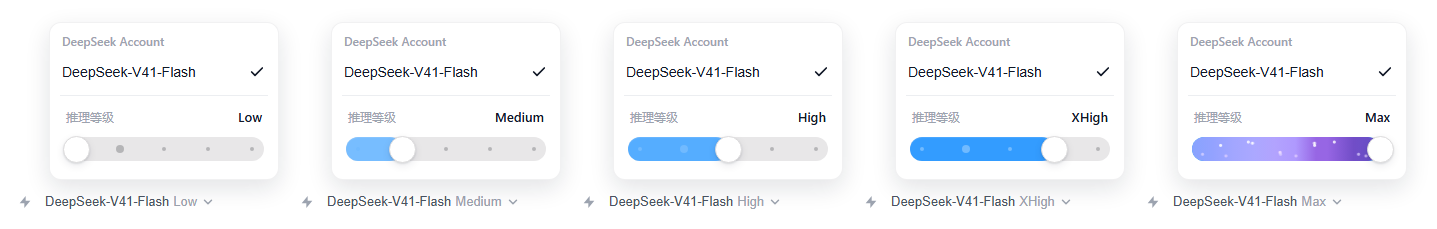
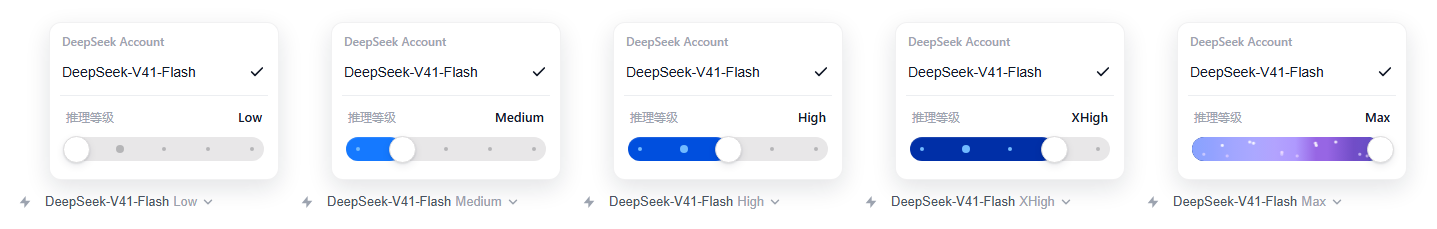
feat: 色阶提鲜，最高蓝改为克莱因蓝 #002FA7 v0.0.9
- 色相 210° → 223.1°、饱和度全程 100%、亮度 65% → 32.7%：不再只降亮度，低档不会被冲淡成粉蓝
- 最高档（max 下面那格）由 #339CFF 改为克莱因蓝 #002FA7；四档模型实测 #0061F9 → #002FA7
- 五档模型实测 #1579FF → #004FDE → #002FA7；最深色仍铺满最后两格，max 紫色渐变不变
- README 更新功能说明、0.0.9 更新日志与配图 assets/screenshots/effort-deepen.png

Changed region(s): [[0.6124, 0.5808, 0.7349, 0.7031], [0.4287, 0.5808, 0.5205, 0.7031], [0.2143, 0.5808, 0.2756, 0.7031]]

diff --git a/lib/client.js b/lib/client.js
@@ -81,30 +81,27 @@ window.__ModuleLoader__.load({
 			document.head.appendChild(tag);
 		}
 		const NO_EFFORTS = [];
-		// ★ 每拉动一格，这一格填充的蓝色就比上一格更深一点。
-		//   做法：色相 / 饱和度钉死（沿用原来 #339CFF 的 209.1° / 100%），只按档位线性降低亮度，
-		//   所以看起来是"同一个蓝越来越深"，不会换色。
-		//   最深的那一档仍然正好是原来的 #339CFF（亮度 60%），而且最深色铺满最后两格，
-		//   因此最高档（max 的紫色渐变）与它下面那格的既有观感完全不变，只有更低的档位变浅。
-		const EFFORT_BLUE_HUE = 209.1;
-		const EFFORT_BLUE_SAT = 100;
-		const EFFORT_BLUE_LIGHT_L = 80;
-		const EFFORT_BLUE_DEEP_L = 60;
+		// ★ 每拉动一格，这一格填充的蓝色就比上一格更深、也更艳一点。
+		//   色阶两端：最低档是鲜亮的蔚蓝 hsl(210, 100%, 65%)，最高档（max 下面那格）是
+		//   克莱因蓝 #002FA7，也就是 hsl(223.1, 100%, 32.7%)。中间色相从 210° 慢慢偏到 223.1°、
+		//   饱和度全程 100%、只降亮度 —— 所以是"同一个蓝越来越深越来越浓"，
+		//   而不是之前那样越往低档越被亮度冲淡成粉蓝色。
+		//   最深色铺满最后两格，因此 max 的紫色渐变与它下面那格的观感完全不变。
+		const EFFORT_BLUE_RAMP = { h0: 210, s0: 100, l0: 65, h1: 223.1, s1: 100, l1: 32.7 };
+		const effortBlueCss = (t) => {
+			const mix = (from, to) => Math.round((from + (to - from) * t) * 10) / 10;
+			return "hsl(" + mix(EFFORT_BLUE_RAMP.h0, EFFORT_BLUE_RAMP.h1) + ", " + mix(EFFORT_BLUE_RAMP.s0, EFFORT_BLUE_RAMP.s1) + "%, " + mix(EFFORT_BLUE_RAMP.l0, EFFORT_BLUE_RAMP.l1) + "%)";
+		};
 		const buildEffortPalette = (steps) => {
 			const out = [];
 			if (steps <= 0) return out;
-			const deep = "hsl(" + EFFORT_BLUE_HUE + ", " + EFFORT_BLUE_SAT + "%, " + EFFORT_BLUE_DEEP_L + "%)";
 			if (steps <= 2) {
-				for (let i = 0; i < steps; i++) out.push(deep);
+				for (let i = 0; i < steps; i++) out.push(effortBlueCss(1));
 				return out;
 			}
-			// 第 0 格最浅 → 倒数第 2 格到达最深的 #339CFF，最高格（max）沿用同一个最深色。
+			// 第 0 格最浅 → 倒数第 2 格到达克莱因蓝，最高格（max）沿用同一个最深色。
 			const span = steps - 2;
-			for (let i = 0; i < steps; i++) {
-				const t = Math.min(1, i / span);
-				const level = EFFORT_BLUE_LIGHT_L + (EFFORT_BLUE_DEEP_L - EFFORT_BLUE_LIGHT_L) * t;
-				out.push("hsl(" + EFFORT_BLUE_HUE + ", " + EFFORT_BLUE_SAT + "%, " + (Math.round(level * 10) / 10) + "%)");
-			}
+			for (let i = 0; i < steps; i++) out.push(effortBlueCss(Math.min(1, i / span)));
 			return out;
 		};
 		function EffortSlider({ efforts, index, majorIndex, onChange, onSubmit, disabled }) {

diff --git a/README.md b/README.md
@@ -8,13 +8,13 @@ A Codex-style reasoning-effort slider embedded in the DeepSeek Harness model sel
 Open the model picker, drag the slider, and the effort level takes effect on release.
 
 - 拖动实时预览、松手生效；换模型自动携带当前档位，目标模型不支持时回退到默认档
-- 拖动时**每拉动一格，填充的蓝色就比上一格更深一档**（同一色相只降亮度）；最高档前的最后一格仍是最深的 `#339CFF`，max 的紫色渐变保持不变
+- 拖动时**每拉动一格，填充的蓝色就比上一格更深更浓一档**：色相从 210° 慢慢偏到 223.1°、饱和度全程拉满、亮度从 65% 压到 32.7%，最低档是鲜亮的蔚蓝，最高档前的最后一格是**克莱因蓝 `#002FA7`**，max 的紫色渐变保持不变
 - 键盘 ←/→ ↑/↓ 与鼠标滚轮都能切档；单档位模型会提示"支持档位"
-- Drag to preview · per-model effort fallback · keyboard and wheel support · each notch deepens the fill blue by one shade
+- Drag to preview · per-model effort fallback · keyboard and wheel support · each notch deepens and saturates the fill blue, up to International Klein Blue
 
 ![DeepSeek Harness 模型选择器里的推理等级滑条（内嵌插件，最高档 Max）](assets/screenshots/effort-slider.png)
 
-![每拉动一格蓝色深一档（Low → Medium → High → XHigh → Max，最高档仍是原来的紫色渐变）](assets/screenshots/effort-deepen.png)
+![每拉动一格蓝色更深更艳（Low → Medium → High → XHigh → Max：蔚蓝 → 克莱因蓝，最高档仍是原来的紫色渐变）](assets/screenshots/effort-deepen.png)
 
 ## 安装
 
@@ -23,7 +23,7 @@ Open the model picker, drag the slider, and the effort level takes effect on rel
 **从本仓库安装（推荐，tag 版）**
 
 ```sh
-dsh plugin --profile desktop add https://github.com/edwardzhou21/dsh-reasoning-slider/archive/refs/tags/v0.0.8.tar.gz
+dsh plugin --profile desktop add https://github.com/edwardzhou21/dsh-reasoning-slider/archive/refs/tags/v0.0.9.tar.gz
 ```
 
 **想跟最新提交**
@@ -54,7 +54,7 @@ dsh plugin --profile web remove reasoning-slider
 
 ## 兼容性
 
-`reasoning-slider@0.0.8` 支持 DSH `0.1.2-alpha.2`、`0.1.2-alpha.4`、`0.1.2-alpha.5`、`0.1.2-rc.1` 与 `0.2.0-rc.2`，要求 Node.js `22.13.0` 或更高版本。DSH `0.1.2-alpha.3` 尚未验证。
+`reasoning-slider@0.0.9` 支持 DSH `0.1.2-alpha.2`、`0.1.2-alpha.4`、`0.1.2-alpha.5`、`0.1.2-rc.1` 与 `0.2.0-rc.2`，要求 Node.js `22.13.0` 或更高版本。DSH `0.1.2-alpha.3` 尚未验证。
 
 一次性 `web` Profile 已在 Windows、Node.js `24.19.0`、DSH `0.1.2-alpha.2` 环境，以及 WSL2 Ubuntu、Node.js `22.23.2`、DSH `0.1.2-alpha.4`、`0.1.2-alpha.5`、`0.1.2-rc.1` 环境完成本地插件安装、配置合成、服务冷启动、认证页面响应及卸载复核。
 
@@ -74,6 +74,12 @@ dsh-reasoning-slider/
 客户端代码是 `window.__ModuleLoader__.load({...})` 格式的普通 JavaScript，无构建步骤；React 通过 `require("react")` 从 dsh 运行时解析。
 
 ## 更新日志
+
+### 0.0.9
+
+- 色阶整体**提鲜**：不再只降亮度（那样低档会被冲淡成粉蓝色），改成色相从 `210°` 慢慢偏到 `223.1°`、饱和度全程 `100%`、亮度从 `65%` 压到 `32.7%`。
+- 色阶最高档（max 下面那格）改为**克莱因蓝 `#002FA7`**（= `hsl(223.1, 100%, 32.7%)`），最低档是鲜亮的蔚蓝 `#4DA6FF`；每一格都比上一格更深也更浓。最深色依旧铺满最后两格，所以 max 的紫色渐变与它下面那格的位置关系不变。
+- 五档模型实测渐变为 `#1579FF → #004FDE → #002FA7`（再往上就是紫色 max）；四档模型为 `#0061F9 → #002FA7`。
 
 ### 0.0.8
 
